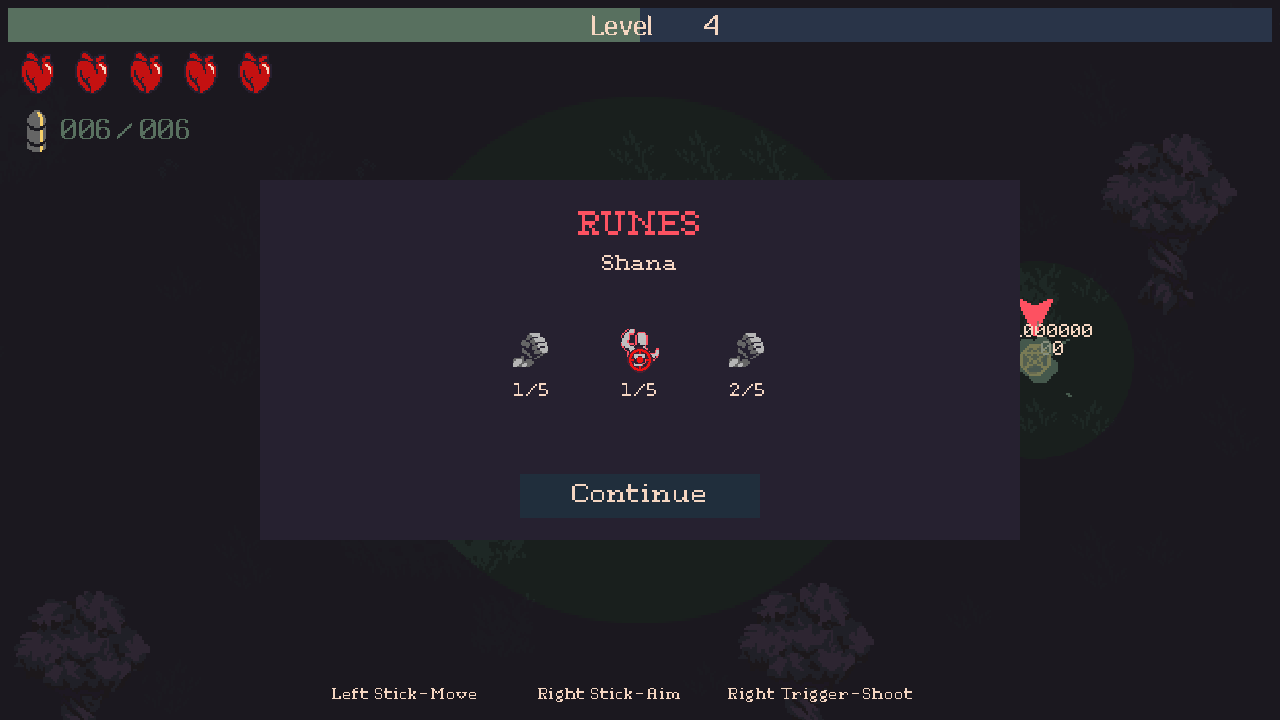
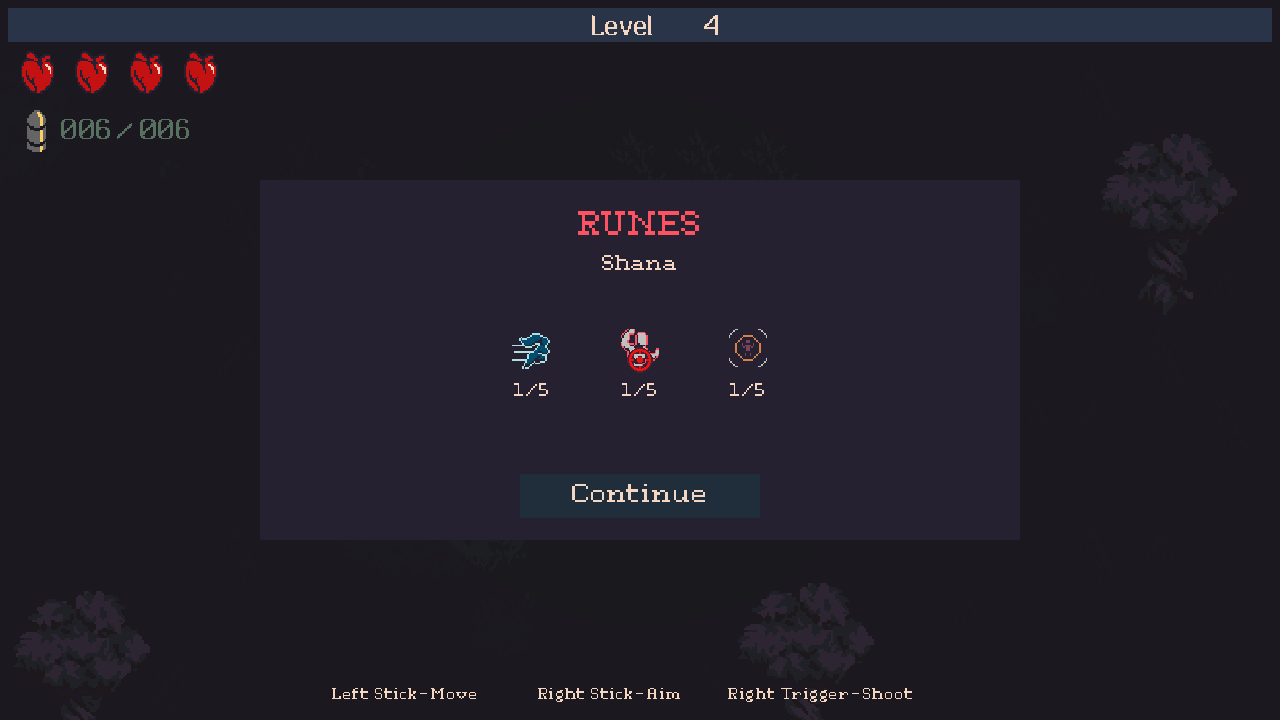
Prepare verified game 1.3.0 and updater transition release

diff --git a/release/build.py b/release/build.py
@@ -29,7 +29,7 @@ env.update(TEMP=str(args.scratch), TMP=str(args.scratch), MODERNIZATION_SCRATCH=
            DOTNET_CLI_HOME=str(args.scratch / 'dotnet'), DOTNET_GENERATE_ASPNET_CERTIFICATE='false')
 subprocess.run(['dotnet', 'build', str(ROOT / 'src/Modernization.csproj'), '-c', 'Release', '--no-restore',
                 '--nologo', '-v:minimal', '-nodeReuse:false', '-m:1', '-p:UseSharedCompilation=false'], cwd=ROOT, env=env, check=True)
-stage = args.output / '20-Minutes-Till-Dawn-Revamped-1.2.1'
+stage = args.output / '20-Minutes-Till-Dawn-Revamped-1.3.0'
 (stage / 'Mod').mkdir(parents=True)
 plugin = args.scratch / 'bin/Modernization/netstandard2.0/TwentyMinutes.Modernization.dll'
 shutil.copy2(plugin, stage / 'Mod' / plugin.name)
@@ -46,7 +46,7 @@ for name in ('README.md', 'LICENSE', 'INSTALL.md'):
 contract = asset_contract(args.prepared_assets)
 if len(contract) != 593:
     raise SystemExit('Prepared asset contract must contain the complete 593-file local runtime set, including affixes, achievement icons/catalog, source display/camera data and both gameplay sounds with provenance')
-release = {'product': '20 Minutes Till Dawn - Revamped', 'version': '1.2.1', 'source_commit': revision,
+release = {'product': '20 Minutes Till Dawn - Revamped', 'version': '1.3.0', 'source_commit': revision,
            'candidate': args.candidate, 'plugin_sha256': digest(plugin), 'assets': contract,
            'asset_delivery': 'Prepared locally from pinned owned inputs; no extracted game art/data in this archive'}
 (stage / 'RELEASE.json').write_text(json.dumps(release, indent=2) + '\n', encoding='utf8', newline='\n')
@@ -62,10 +62,10 @@ plugin_path = 'BepInEx/plugins/20MTDModernization/TwentyMinutes.Modernization.dl
 installed[plugin_path] = digest(plugin)
 if len(installed) != 614:
     raise SystemExit('Updater contract requires the complete 614-file owned payload')
-(stage / 'UPDATE.json').write_text(json.dumps({'schema': 2, 'minimum_updater': '0.2.0', 'save_epoch': 1, 'product': '20MTD-Revamped', 'version': '1.2.1',
+(stage / 'UPDATE.json').write_text(json.dumps({'schema': 2, 'minimum_updater': '0.2.0', 'save_epoch': 1, 'product': '20MTD-Revamped', 'version': '1.3.0',
     'source_commit': revision, 'files': installed, 'payload': {plugin_path: 'Mod/' + plugin.name}}, indent=2) + '\n', encoding='utf8', newline='\n')
 files = {p.relative_to(stage).as_posix(): digest(p) for p in sorted(stage.rglob('*')) if p.is_file()}
-(stage / 'PACKAGE.json').write_text(json.dumps({'version': '1.2.1', 'source_commit': revision, 'files': files}, indent=2), encoding='utf8', newline='\n')
+(stage / 'PACKAGE.json').write_text(json.dumps({'version': '1.3.0', 'source_commit': revision, 'files': files}, indent=2), encoding='utf8', newline='\n')
 archive = args.output / (stage.name + '.zip')
 with zipfile.ZipFile(archive, 'w', compression=zipfile.ZIP_DEFLATED, compresslevel=9) as package:
     for path in sorted(stage.rglob('*')):

diff --git a/installer/install.py b/installer/install.py
@@ -13,7 +13,7 @@ import zipfile
 
 HERE = pathlib.Path(__file__).resolve().parent
 ROOT = HERE.parent
-VERSION = '1.2.1'
+VERSION = '1.3.0'
[1 lines of base64/hex data omitted]
 MOD = pathlib.PurePosixPath('BepInEx/plugins/20MTDModernization')
 
@@ -88,7 +88,7 @@ def download(pin, work, name):
     path.parent.mkdir(exist_ok=True)
     if not path.exists():
         writing = path.with_name(path.name + '.writing')
-        with urllib.request.urlopen(urllib.request.Request(pin['url'], headers={'User-Agent': '20MTD-Revamped/1.2.1'})) as response, writing.open('wb') as output:
+        with urllib.request.urlopen(urllib.request.Request(pin['url'], headers={'User-Agent': '20MTD-Revamped/1.3.0'})) as response, writing.open('wb') as output:
             shutil.copyfileobj(response, output)
         if digest(writing) != pin['sha256']:
             raise ValueError('Downloaded dependency digest mismatch: ' + name)

diff --git a/validation/RuneRewardChecks.cs b/validation/RuneRewardChecks.cs
@@ -32,7 +32,7 @@ public partial class RuntimeChecks
   var source=Object.FindObjectOfType<AndroidEndlessRun>();WorldClearSchedule(source);((List<int>)WindField(source,"pendingBosses")).Add(index);WorldTime(SelectedMap.MapData.bossSpawns[index].timeToSpawn);ElementCall(source,"Update");
  }
  void RuneDefeatBoss(GameController game,int index)
- {var boss=RuneBoss(game,index);boss.transform.position=PlayerController.Instance.transform.position+Vector3.right*6;Physics2D.SyncTransforms();boss.TakeDamage(DamageType.Bullet,100000000);}
+ {var boss=RuneBoss(game,index);boss.transform.position=PlayerController.Instance.transform.position+Vector3.right*18;Physics2D.SyncTransforms();boss.TakeDamage(DamageType.Bullet,100000000);}
  IEnumerator CheckRuneRewards(string mode)
  {
   if(mode=="rune-rewards-menu"||mode=="rune-rewards-legacy")

diff --git a/src/Plugin.cs b/src/Plugin.cs
@@ -16,7 +16,7 @@ using flanne.PerkSystem;
 using Object=UnityEngine.Object;
 
 namespace TwentyMinutes.Modernization;
-[BepInPlugin(Id,"20MTD Modernization","1.2.1")]
+[BepInPlugin(Id,"20MTD Modernization","1.3.0")]
 public class Plugin:BaseUnityPlugin
 {
     public const string Id="local.20mtd.modernization";

diff --git a/README.md b/README.md
@@ -4,7 +4,7 @@ Android 8.6 gameplay brought to the Windows game, with a transparent stats HUD, 
 
 A community mod for **20 Minutes Till Dawn by Flanne**, maintained by **Darkaxt**.
 
-[Download v1.2.1](https://github.com/Darkaxt/20-Minutes-Till-Dawn-Revamped/releases/tag/v1.2.1) · [Android updater](https://github.com/Darkaxt/20-Minutes-Till-Dawn-Revamped/releases/tag/updater-v0.1.0) · [Installation](INSTALL.md) · [Changelog](#changelog) · [Gameplay ledger](docs/PARITY.md)
+[Download v1.3.0](https://github.com/Darkaxt/20-Minutes-Till-Dawn-Revamped/releases/tag/v1.3.0) · [Android updater 0.2.0](https://github.com/Darkaxt/20-Minutes-Till-Dawn-Revamped/releases/tag/updater-v0.2.0) · [Installation](INSTALL.md) · [Changelog](#changelog) · [Gameplay ledger](docs/PARITY.md)
 
 ![Native title screen with Flanne's original credit and MAINTAINED BY DARKAXT pixel lettering](docs/images/title-maintained.png)
 
@@ -12,7 +12,7 @@ A community mod for **20 Minutes Till Dawn by Flanne**, maintained by **Darkaxt*
 
 ## What changes
 
-- **Added for Revamped:** transparent stats and skill HUD; thirty milestone unlocks and notifications; expanded rune progression; Save & return / Continue; native Custom settings and mode-default loading; weighted exploration chests and shared edge pointers; optional artwork recolours.
+- **Added for Revamped:** transparent stats and skill HUD; thirty milestone unlocks and notifications; character rune rewards from arena bosses; Save & return / Continue; native Custom settings and mode-default loading; weighted exploration chests and shared edge pointers; optional artwork recolours.
 - **Ported from Android 8.6:** Charge Cannon and its three evolutions; Gale and Bulwark with their exclusive upgrades; existing character abilities, combat, status effects, summons, stacking, cooldowns, shooting, event ordering, scenario schedules and mode behavior.
 - **Fixed after the anomaly review:** repeated Continue bonuses, damage signs, frozen-only Shatter, temporary-buff accounting, pooled-effect reuse, exhausted reward menus, encounter/contact defects, character/summon lifetimes and inaccurate descriptions. The changelog below separates each release's ports and corrections.
 
@@ -148,15 +148,17 @@ Use the game's own menus to adjust the run, weapon, attributes, enemies, summons
 
 You need your own **Windows Steam build 12679152** (Unity 2019.4.40f1 Mono x64) and the supported **Android 8.6 / 1093 APKM**. Python 3.14 x64 and .NET 10 are the tested preparation prerequisites.
 
-1. Download and extract the [v1.2.1 release ZIP](https://github.com/Darkaxt/20-Minutes-Till-Dawn-Revamped/releases/tag/v1.2.1).
+1. Download and extract the [v1.3.0 release ZIP](https://github.com/Darkaxt/20-Minutes-Till-Dawn-Revamped/releases/tag/v1.3.0).
 2. Close the game and follow [INSTALL.md](INSTALL.md), including its upgrade instructions if Revamped is already installed.
 3. Launch the game normally through Steam.
 
-The release contains the mod and installer recipes. It prepares the required artwork/data locally from your owned inputs; extracted game assets and validation assemblies are not bundled. Installation preserves the original game files, saves and configuration and supports exact owned-file rollback.
+The release contains the mod and installer recipes. It prepares the required artwork/data locally from your owned inputs; extracted game assets and validation assemblies are not bundled. Windows installation preserves the original game files, saves and configuration and supports exact owned-file rollback.
 
-**DroidDeck:** the Android updater finds the existing Steam game and installs compatible releases while preserving progress/settings. This runs the Windows mod inside DroidDeck. [Phone delivery and launch notes](docs/DROIDDECK.md).
+**DroidDeck:** updater 0.2.0 finds the existing Steam game and performs the one-time rune-transition save reset described below. Later updates preserve new progress and settings. This runs the Windows mod inside DroidDeck. [Phone delivery and launch notes](docs/DROIDDECK.md).
 
 ### Update directly on Android
+
+**Install updater 0.2.0 first.** This transition resets this game's old progress and Continue save once, as shown by **Reset saves & install**. Settings and other games remain. Later updates preserve new progress. Use the DroidDeck/Steam-library folder grant; the updater locates the selected game's own save prefix.
 
 Install **Revamped Updater**, connect DroidDeck once through Android Files, then check and install compatible GitHub releases. It finds the game through Steam's library catalogue and remembers the folder; no custom folder, Linux browsing, root, Shizuku or GitHub login is needed.
 
@@ -180,6 +182,14 @@ Install **Revamped Updater**, connect DroidDeck once through Android Files, then
 The HUD groups acquired icons by native upgrade path, with a subtle glow for tripled skills and no tier/count text. Native auto-targeting remains available; no separate autofire toggle was added. Continue reconstructs the supported build and runtime state; it is not a frozen snapshot of every live enemy, projectile or RNG state.
 
 ## Changelog
+
+### v1.3.0 — Character runes and arena-boss rewards
+
+**Added:** permanent character-specific rune ranks, automatic row-based boss lotteries, sequential slot reveals and capped-rune burning/XP conversion in one popup. Standard splits rewards between its two arena bosses; Quickplay's sole boss receives all; Endless repeats per pair; Challenge awards once; Custom is excluded. **Changed:** rune purchases/prices/column prerequisites are removed, while independent toggles and the five-rank cap remain. **Fixed/refined:** legacy rank migration and battle-copy/Continue ownership; Wild Magic Curse/Smite chains, Elemental Barrage's new control consumers and Dedication's offensive-family counting. [Exact rules](docs/RUNES.md) · [Release notes](release/NOTES-1.3.0.md).
+
+### Android updater 0.2.0
+
+**Added:** a visible one-time save reset for the rune transition, scoped to this game's Steam prefix, with interrupted-reset recovery and an installed epoch that preserves new progress on later/repeated updates. Existing signer and folder autodetection remain. Game 1.3.0 requires this updater. [Instructions](android-updater/README.md).
 
 ### v1.2.1 — Larger elite enemies
 

diff --git a/release/NOTES-1.3.0.md b/release/NOTES-1.3.0.md
@@ -1,0 +1,13 @@
+# 1.3.0 — Character runes and arena-boss rewards
+
+Runes now belong to each character and are earned through arena-boss lotteries. Credit purchases, hold-to-buy, prices and column prerequisites are removed. Press earned runes to toggle them independently, including multiple choices in the same row; each rune still has five ranks. Existing Windows ranks and selections seed character profiles once.
+
+Forest awards 1/3/6/10 draws at Darkness 0/4/8/12, distributed across the corresponding rune rows. Temple uses Darkness+4; Pumpkin Patch uses +2. Standard splits half to each arena boss, with the odd draw going to the second. Quickplay's single arena boss receives its full allotment. Endless repeats for every boss pair; Challenge awards once, while Custom remains excluded.
+
+One popup reveals each lottery slot in turn, then burns capped runes into XP gems inside it. A discarded tier-1 rune is half a character level; tier-2 is one, tier-3 is one and a half, and tier-4 is two. The normal upgrade/evolution flow remains. Continue preserves saved results, reveals and XP delivery without rerolls or duplicate grants. New permanent ranks improve subsequent runs.
+
+Wild Magic restarts Curse and Smite chains at its existing rank-scaled death chance. Elemental Barrage counts electrical stun and wind disorientation alongside Burn/Freeze. Dedication counts distinct offensive summon families, treating paired actors as one and excluding defensive Seismic Ward.
+
+**DroidDeck users: install Revamped Updater 0.2.0 first.** The APK resets this game's old progress and Continue save once for this transition. Its action explicitly announces the reset; other games, settings and registry remain. An installed epoch prevents repeat/later updates from wiping new progress. Windows installation preserves existing earned rune power. No live installation is changed by publishing these packages.
+
+Native verification covers rune menus/controller input, legacy/character ownership, actual battle copies and Continue, boss/mode splits, slot reveal/burn presentation at square/4:3/16:9, exact XP/native choices/evolution, both artwork modes, interruption recovery and the updater's deletion scope. Final packaged runtime, copied installation/rollback and independent public game/APK delivery are recorded in [PROGRESS.md](../docs/PROGRESS.md).

diff --git a/docs/DROIDDECK.md b/docs/DROIDDECK.md
@@ -1,5 +1,7 @@
 # DroidDeck installation
 
+For game 1.3.0, install [Revamped Updater 0.2.0](https://github.com/Darkaxt/20-Minutes-Till-Dawn-Revamped/releases/tag/updater-v0.2.0) first. The character-rune transition resets this game's old progress and Continue checkpoint once. The updater announces the reset, uses the selected game's Steam prefix and preserves settings, registry and other games. Later/repeated updates keep new progress. [Current updater instructions](../android-updater/README.md). Earlier delivery records below describe their historical versions; publication does not update the live phone.
+
 ## Current phone delivery — 2026-10-25
 
 **Revamped1.1.3 is now installed through the native Android updater.** The user granted DroidDeck folder access once; the client automatically found the existing game through its Steam library catalogue, remembered the actual game folder, fetched the public GitHub release and upgraded1.1.2→1.1.3. The installed manifest identifies source `26cd69f5f131efb390270923f68aaed14d40aa90`; all614 owned files and142 stock originals verify. Current profile files, settings and all three Wine registry files match the immediate pre-update baseline. No saves or preferences were reset during this update.

diff --git a/INSTALL.md b/INSTALL.md
@@ -1,4 +1,6 @@
-# Install 1.2.1
+# Install 1.3.0
+
+Android/DroidDeck: install **Revamped Updater 0.2.0** before this game update. The character-rune transition resets this game's old progress and Continue save once. Its button announces the reset; subsequent updates preserve new progress. Connect the DroidDeck/Steam-library folder so the updater can reach this game's own prefix. Windows installation retains existing purchased ranks as the initial character rune seed. [Updater instructions](android-updater/README.md).
 
[1 lines of base64/hex data omitted]
 
